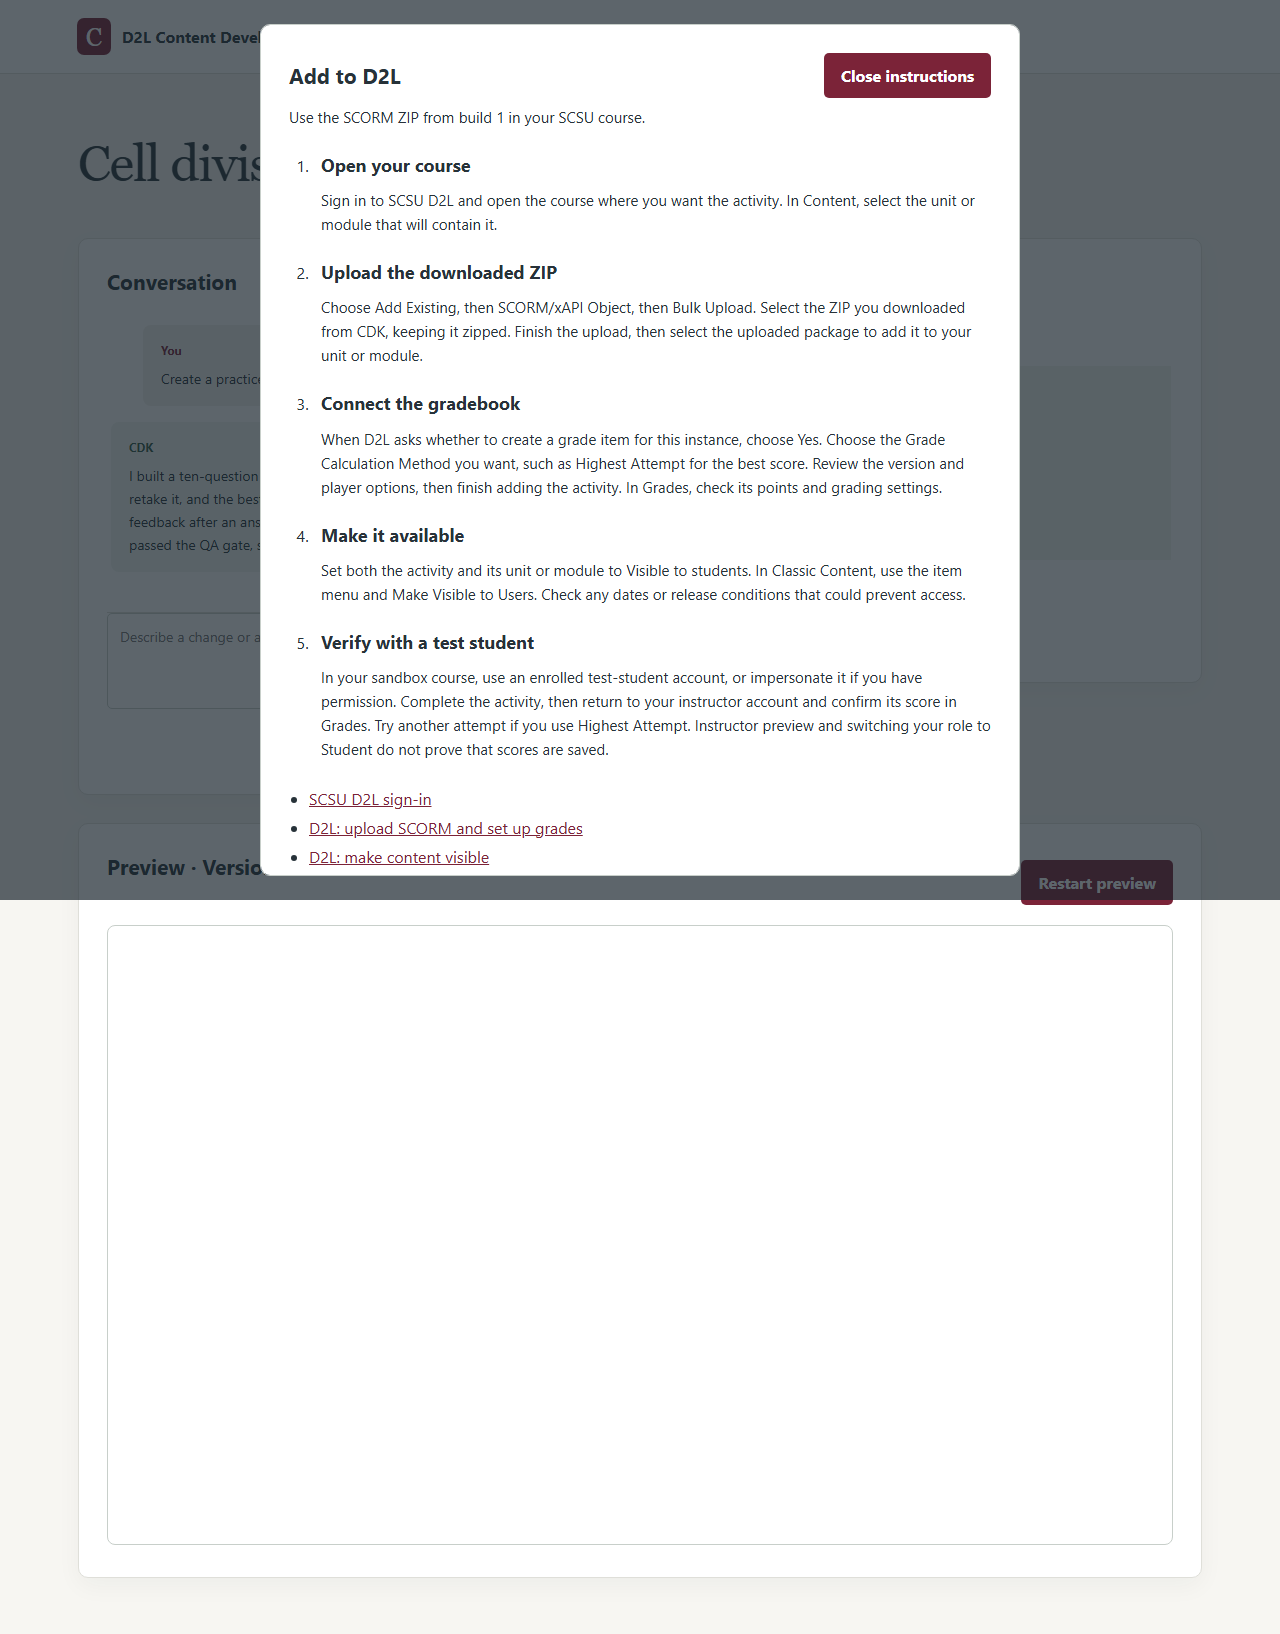
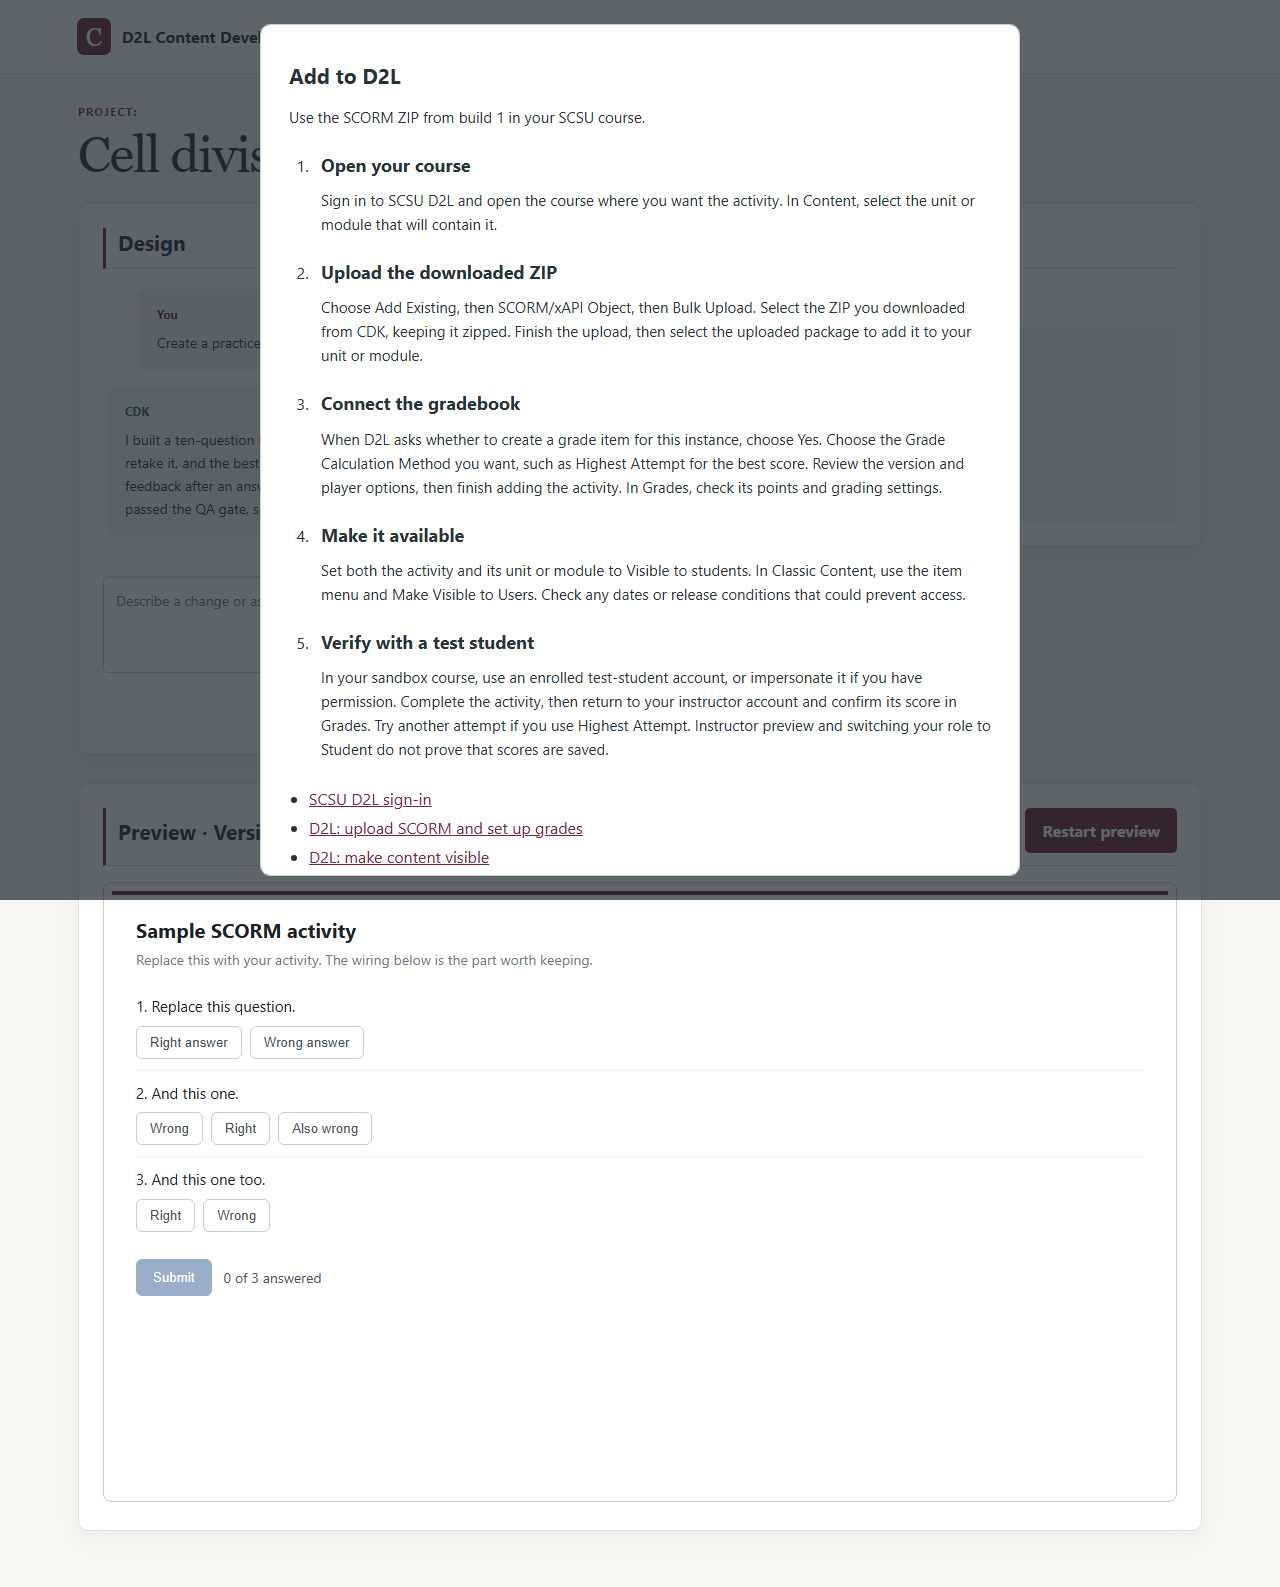
Tighten workspace layout and clarify design workflow

diff --git a/front-end/src/App.tsx b/front-end/src/App.tsx
@@ -18,7 +18,7 @@ function BuildPanel({ build, turn, statusLines, connection, outcome }: {
   outcome?: string;
 }) {
   return <section className="card build-panel" aria-labelledby="build-title" tabIndex={0}>
-    <h2 id="build-title">Build</h2>
+    <h2 className="panel-heading" id="build-title">Build</h2>
     {turn.status === 'running' && turn.startedAt !== null && <WorkingIndicator startedAt={turn.startedAt} step={turn.currentStep} connection={connection} />}
     {turn.status === 'running' && statusLines.length > 0 && <StatusFeed lines={statusLines} turnId={turn.id} />}
     {turn.status !== 'running' && turn.status !== 'idle' && <p className="turn-summary">{turn.status === 'completed' ? 'Request complete' : outcome}</p>}
@@ -52,6 +52,7 @@ export function App() {
   const latestBuild = [...builds].sort((a, b) => b.version - a.version)[0] ?? null;
   const readyBuild = [...builds].filter(build => build.status === 'ready').sort((a, b) => b.version - a.version)[0] ?? null;
   const latestAgent = messages.filter(message => message.role === 'agent').at(-1);
+  const hasMessages = messages.length > 0 || streamingMessages.length > 0;
   const chatHistory = useRef<HTMLDivElement>(null);
 
   useEffect(() => {
@@ -92,12 +93,13 @@ export function App() {
   return <main className="app-shell">
     <header className="topbar"><a className="brand" href="/" aria-label="D2L Content Development Kit home"><span aria-hidden="true">C</span>D2L Content Development Kit</a></header>
     <section className="intro" aria-labelledby="page-title">
+      <p className="workspace-eyebrow">{project ? 'Project:' : 'Course material workspace'}</p>
       <h1 id="page-title">{project?.title ?? 'Create an activity'}</h1>
     </section>
     <div className="workspace">
       <section className="card chat-panel" aria-labelledby="chat-title" tabIndex={0}>
-        <h2 id="chat-title">Conversation</h2>
-        <div ref={chatHistory} className="chat-history" role="group" tabIndex={0} aria-label="Conversation history">
+        <h2 className="panel-heading" id="chat-title">Design</h2>
+        <div ref={chatHistory} className="chat-history" hidden={!hasMessages} role="group" tabIndex={0} aria-label="Conversation history">
           {messages.map(message => <article className={`chat-message message-${message.role}`} key={message.id}>
             <p className="speaker">{message.role === 'instructor' ? 'You' : 'CDK'}</p>
             <p>{message.content.filter(block => block.type === 'text').map(block => block.text).join('\n')}</p>
@@ -108,7 +110,7 @@ export function App() {
         </div>
         <div className="sr-only" role="status" aria-live="polite" aria-atomic="true">{latestAgent ? `CDK: ${latestAgent.content.filter(block => block.type === 'text').map(block => block.text).join('')}` : ''}</div>
         {historyError && <p className="error" role="alert">{historyError}</p>}
-        <form onSubmit={handleSend} className="composer">
+        <form onSubmit={handleSend} className={hasMessages ? 'composer' : 'composer composer-empty'}>
           {!project && <><label htmlFor="project-title">Project title</label><input id="project-title" value={title} onChange={event => setTitle(event.target.value)} placeholder="e.g., Cell division practice" maxLength={160} disabled={sending} /></>}
           <label htmlFor="request-text" className={project ? 'sr-only' : undefined}>{project ? 'Describe a change' : 'What should students learn or do?'}</label>
           <textarea ref={messageBox} id="request-text" value={requestText} onChange={event => setRequestText(event.target.value)} placeholder={project ? 'Describe a change or ask a question…' : 'Create a ten-question practice quiz on cell division…'} rows={3} maxLength={20000} />

diff --git a/front-end/src/App.css b/front-end/src/App.css
@@ -8,12 +8,14 @@ button:focus-visible, input:focus-visible, textarea:focus-visible, a:focus-visib
 .brand { display: flex; gap: 11px; align-items: center; color: #273239; font-size: 16px; font-weight: 680; text-decoration: none; }
 .brand span { width: 34px; height: 37px; display: grid; place-items: center; border-radius: 7px; color: #fff; background: #7b2338; font: 25px Georgia, serif; }
 .intro, .workspace { max-width: 1180px; margin: 0 auto; }
-.intro { padding: 62px 28px 36px; }
+.intro { padding: 30px 28px 22px; }
+.workspace-eyebrow { margin: 0 0 8px; color: #7b2338; font-size: 11px; font-weight: 750; letter-spacing: 1.35px; text-transform: uppercase; }
 h1, h2, h3, p { margin-top: 0; }
-h1 { max-width: 670px; margin-bottom: 12px; font: 400 clamp(34px, 4vw, 52px)/1.06 Georgia, serif; letter-spacing: -1.4px; }
+h1 { max-width: 670px; margin-bottom: 0; font: 400 clamp(34px, 4vw, 52px)/1.06 Georgia, serif; letter-spacing: -1.4px; }
 .workspace { display: grid; grid-template-columns: minmax(0, 1.05fr) minmax(0, .95fr); gap: 28px; padding: 0 28px 56px; }
-.card { min-height: 445px; padding: 30px; border: 1px solid #dfdfd9; border-radius: 10px; background: #fff; box-shadow: 0 8px 24px #21322a0b; }
-h2 { margin-bottom: 26px; font-size: 21px; }
+.card { min-height: 0; padding: 24px; border: 1px solid #dfdfd9; border-radius: 10px; background: #fff; box-shadow: 0 8px 24px #21322a0b; }
+h2 { margin-bottom: 16px; font-size: 21px; }
+.panel-heading { padding: 0 0 12px 12px; border-left: 3px solid #7b2338; border-bottom: 1px solid #deded8; }
 label { display: block; margin: 20px 0 8px; font-size: 13px; font-weight: 700; }
 input, textarea { width: 100%; padding: 12px; border: 1px solid #c8cfca; border-radius: 5px; color: #273239; background: #fff; font-size: 14px; line-height: 1.5; }
 textarea { min-height: 160px; resize: vertical; }
@@ -44,9 +46,9 @@ h3 { margin-bottom: 10px; font: 400 25px Georgia, serif; }
 .findings { margin: 16px 0; padding-left: 19px; color: #5b3733; font-size: 13px; line-height: 1.55; }
 .findings strong { font-size: 11px; }
 .download { display: inline-block; padding: 10px 13px; border-radius: 5px; color: #fff; background: #315947; font-size: 13px; font-weight: 700; text-decoration: none; }
-@media (max-width: 760px) { .intro { padding-top: 42px; } .workspace { grid-template-columns: 1fr; } .card { min-height: auto; } }
+@media (max-width: 760px) { .intro { padding-top: 24px; } .workspace { grid-template-columns: 1fr; } .card { min-height: auto; } }
 .workspace { grid-template-columns: minmax(0, 1.4fr) minmax(0, 1fr); align-items: start; }
-.chat-panel { padding: 28px; }
+
 .chat-history { max-height: 420px; overflow-y: auto; padding: 4px; }
 .chat-message { padding: 16px 18px; margin-bottom: 16px; border-radius: 8px; line-height: 1.65; font-size: 14px; overflow-wrap: anywhere; }
 .chat-message p:last-child { margin-bottom: 0; white-space: pre-wrap; }
@@ -55,6 +57,8 @@ h3 { margin-bottom: 10px; font: 400 25px Georgia, serif; }
 .speaker { font-size: 12px; font-weight: 750; color: #7b2338; margin-bottom: 6px; }
 .message-agent .speaker { color: #315947; }
 .composer { border-top: 1px solid #deded8; margin-top: 20px; }
+.composer-empty { border-top: 0; margin-top: 0; }
+.composer-empty > label:first-child { margin-top: 0; }
 .composer textarea { min-height: 96px; }
 .composer-footer { display: flex; align-items: center; gap: 20px; justify-content: flex-end; }
 .turn-summary { color: #4e5e58; font-size: 13px; margin: 16px 0 0; }

diff --git a/front-end/e2e/copy-audit.spec.ts b/front-end/e2e/copy-audit.spec.ts
@@ -5,14 +5,25 @@ test('interface copy audit across empty, running, ready, guide, and failed state
   await page.setViewportSize({ width: 1280, height: 900 });
   await page.goto('/');
   await expect(page.getByRole('heading', { level: 1, name: 'Create an activity' })).toBeVisible();
-  await expect(page.getByRole('region', { name: 'Conversation', exact: true })).toBeVisible();
+  await expect(page.getByRole('region', { name: 'Design', exact: true })).toBeVisible();
   await expect(page.getByRole('region', { name: 'Build', exact: true })).toBeVisible();
   await expect(page.getByRole('region', { name: 'Preview' })).toHaveCount(0);
   await expect(page.getByText('Local mode', { exact: true })).toHaveCount(0);
+  await expect(page.getByText('Course material workspace', { exact: true })).toBeVisible();
+  const title = await page.getByRole('heading', { level: 1 }).boundingBox();
+  const design = await page.getByRole('region', { name: 'Design', exact: true }).boundingBox();
+  const heading = await page.getByRole('heading', { name: 'Design', exact: true }).boundingBox();
+  const firstLabel = await page.getByText('Project title', { exact: true }).boundingBox();
+  const send = await page.getByRole('button', { name: 'Send', exact: true }).boundingBox();
+  expect(design!.y - (title!.y + title!.height)).toBeLessThanOrEqual(24);
+  expect(firstLabel!.y - (heading!.y + heading!.height)).toBeLessThanOrEqual(20);
+  expect(design!.y + design!.height - (send!.y + send!.height)).toBeLessThanOrEqual(28);
+  await expect(page.getByRole('group', { name: 'Conversation history' })).toHaveCount(0);
   await page.screenshot({ path: testInfo.outputPath('empty.png'), fullPage: true });
   await page.getByLabel('Project title').fill('Cell division practice');
   await page.getByLabel('What should students learn or do?').fill('Create a practice quiz.');
   await page.getByRole('button', { name: 'Send', exact: true }).click();
+  await expect(page.getByText('Project:', { exact: true })).toBeVisible();
   await expect(page.getByLabel('Request progress')).toContainText('Building from the SCORM starter');
   await expect(page.getByRole('button', { name: 'Working…' })).toBeDisabled();
   await expect(page.getByLabel('Describe a change')).toHaveAccessibleName('Describe a change');

diff --git a/front-end/e2e/chat-thread.spec.ts b/front-end/e2e/chat-thread.spec.ts
@@ -40,7 +40,7 @@ for (const failedFirst of [false, true]) {
     await expect(page.getByText('Version 2', { exact: true })).toBeVisible();
     expect((await new AxeBuilder({ page }).withTags(['wcag2a', 'wcag2aa', 'wcag21aa', 'wcag22aa']).analyze()).violations).toEqual([]);
     await page.setViewportSize({ width: 390, height: 844 });
-    const chat = await page.getByRole('region', { name: 'Conversation' }).boundingBox();
+    const chat = await page.getByRole('region', { name: 'Design' }).boundingBox();
     const build = await page.getByRole('region', { name: 'Build' }).boundingBox();
     const preview = await page.getByRole('region', { name: 'Preview · Version 2' }).boundingBox();
     expect(build!.y).toBeGreaterThan(chat!.y + chat!.height);
@@ -69,7 +69,7 @@ test('keeps progress in the build panel and distinct agent messages around a too
   await page.getByLabel('Project title').fill('Separate agent messages');
   await page.getByLabel('What should students learn or do?').fill('[multi-message] Update my activity');
   await page.getByRole('button', { name: 'Send' }).click();
-  const chat = page.getByRole('region', { name: 'Conversation' });
+  const chat = page.getByRole('region', { name: 'Design' });
   const panel = page.getByRole('region', { name: 'Build' });
   await expect(panel.getByLabel('Request progress')).toBeVisible();
   await expect(chat.getByLabel('Request progress')).toHaveCount(0);

diff --git a/front-end/src/App.test.tsx b/front-end/src/App.test.tsx
@@ -45,7 +45,7 @@ async function firstRequest() {
 describe('F10 conversation', () => {
   it('starts from the chat and requires a title and request', () => {
     render(<App />);
-    expect(screen.getByRole('region', { name: 'Conversation' })).toBeInTheDocument();
+    expect(screen.getByRole('region', { name: 'Design' })).toBeInTheDocument();
     expect(screen.queryByRole('region', { name: 'Preview' })).not.toBeInTheDocument();
     fireEvent.click(screen.getByRole('button', { name: 'Send' }));
     expect(screen.getByRole('alert')).toHaveTextContent('Enter a project title and a request');
@@ -74,7 +74,7 @@ describe('F10 conversation', () => {
   });
   it('shows progress in the build panel and separate streamed agent messages after tool calls', async () => {
     const view = render(<App />); await firstRequest();
-    const chat = screen.getByRole('region', { name: 'Conversation' });
+    const chat = screen.getByRole('region', { name: 'Design' });
     const panel = screen.getByRole('region', { name: 'Build' });
     expect(within(panel).getByLabelText('Request progress')).toBeVisible();
     expect(within(chat).queryByLabelText('Request progress')).not.toBeInTheDocument();

diff --git a/front-end/src/preview/preview.css b/front-end/src/preview/preview.css
@@ -1,10 +1,10 @@
 .build-actions, .preview-controls { display: flex; flex-wrap: wrap; align-items: center; gap: 12px; }
 .build-actions button, .preview-controls button { margin: 0; }
-.preview-panel { width: 100%; min-width: 0; margin: 0; padding: 28px; background: #fff; border: 1px solid #dfdfd9; border-radius: 10px; }
-.preview-header { display: flex; justify-content: space-between; gap: 20px; flex-wrap: wrap; }
-.preview-header h2 { margin-bottom: 12px; }
+.preview-panel { width: 100%; min-width: 0; margin: 0; padding: 24px; background: #fff; border: 1px solid #dfdfd9; border-radius: 10px; }
+.preview-header { display: flex; align-items: center; justify-content: space-between; gap: 12px; flex-wrap: wrap; padding: 0 0 12px 12px; border-left: 3px solid #7b2338; border-bottom: 1px solid #deded8; }
+.preview-header h2, .preview-header button { margin: 0; }
 .preview-header p { line-height: 1.5; }
-.preview-stage { margin-top: 20px; }
+.preview-stage { margin-top: 16px; }
 .preview-stage iframe { width: 100%; height: 620px; border: 1px solid #c8cfca; background: white; }
 .preview-panel :focus-visible { outline: 3px solid #a65169; outline-offset: 3px; }
 

diff --git a/front-end/docs/f14/README.md b/front-end/docs/f14/README.md
@@ -4,13 +4,14 @@ Compared with F13 commit `0e62bb5`. Screenshots use the local scripted stub at 1
 
 | Area or state | Change | Information kept |
 | --- | --- | --- |
-| Header and project heading | Remove Local mode, COURSE MATERIAL WORKSPACE, and both intro taglines. Shorten the initial heading to Create an activity. | App identity, project title, heading hierarchy. |
-| Empty conversation | Remove the sentence repeating the initial request label. | Visible labels for Project title and the initial learning request. |
+| Header and project heading | Remove Local mode and both intro taglines. Keep Course material workspace for the empty state and show Project: for an active project. Shorten the initial heading to Create an activity and tighten its spacing above the cards. | App identity, project title, heading hierarchy. |
+| Empty conversation | Rename Conversation to Design to follow Design → Build → Preview. Remove the sentence repeating the initial request label, hide empty history, and remove its extra composer separator and spacing. Size cards to their contents. | Visible labels for Project title and the initial learning request. |
 | Continuing conversation | Hide the visible Describe a change label and remove the repeated project-history hint. | The associated label remains screen-reader accessible; placeholder, speaker names, and conversation-history name remain. |
 | Running and opening | Remove the two-sentence working hint. Disabled Send reads Working… while running. | Editable draft, progress indicator, elapsed time, connection notices, and Opening your project status. |
 | Build panel | Remove 02 / BUILD and shorten Build panel to Build. Shorten the empty message to No build yet. Reword BUILD n to Version n. Remove QA summaries repeated by the result heading. | Version, completion/failure state, findings and explanations, errors, package download, and the F13 guide action. |
+| Panel headers | Add burgundy accents and a thin divider with consistent, tighter spacing. | Clear Design, Build, and Preview headings without repeated numbered labels. |
 | Preview | Remove 03 / PREVIEW, the repeated local-preview sentence, and the empty preview panel. Hide visible Preview ready text while retaining its screen-reader announcement. | Preview region/heading when a ready build exists, version, loading status, errors, Retry preview, and Restart preview. |
-| F13 instructions modal | Keep its title, current build, ordered instructions, Close, help links, and text export. | Each item supports adding or checking the activity; there is no decorative copy to remove. |
+| F13 instructions modal | Keep its title, current build, ordered instructions, help links, and text export. Place Close at the bottom right and style the text export as a secondary button at the bottom left. | Each item supports adding or checking the activity; there is no decorative copy to remove. |
 | QA and request errors | Remove the redundant QA sentence, retain the actual error and findings. | Actionable failure messages and recovery context; preview errors and retries remain. |
 | Project list | No project-list screen exists on this base branch. | No new screen or workflow introduced. |
 
@@ -27,7 +28,7 @@ Compared with F13 commit `0e62bb5`. Screenshots use the local scripted stub at 1
 
 ## Accessibility verification
 
-The component and browser tests continue to locate the message box and regions by accessible names. The copy audit explicitly checks Conversation, Build, the continuing request's accessible name, and its visually hidden label. Existing axe checks cover empty, running, ready, and QA-failed states. F13's keyboard dialog test covers ordered content, Tab wrapping, Escape, and focus return.
+The component and browser tests continue to locate the message box and regions by accessible names. The copy audit explicitly checks Design, Build, compact empty-state spacing, the workspace/project eyebrow, the continuing request's accessible name, and its visually hidden label. Existing axe checks cover empty, running, ready, and QA-failed states. F13's keyboard dialog test covers ordered content, Tab wrapping, Escape, and focus return.
 
 Manual NVDA verification remains outstanding. Automated accessible-name and axe checks do not substitute for hearing the screen reader announce the interface.
 
